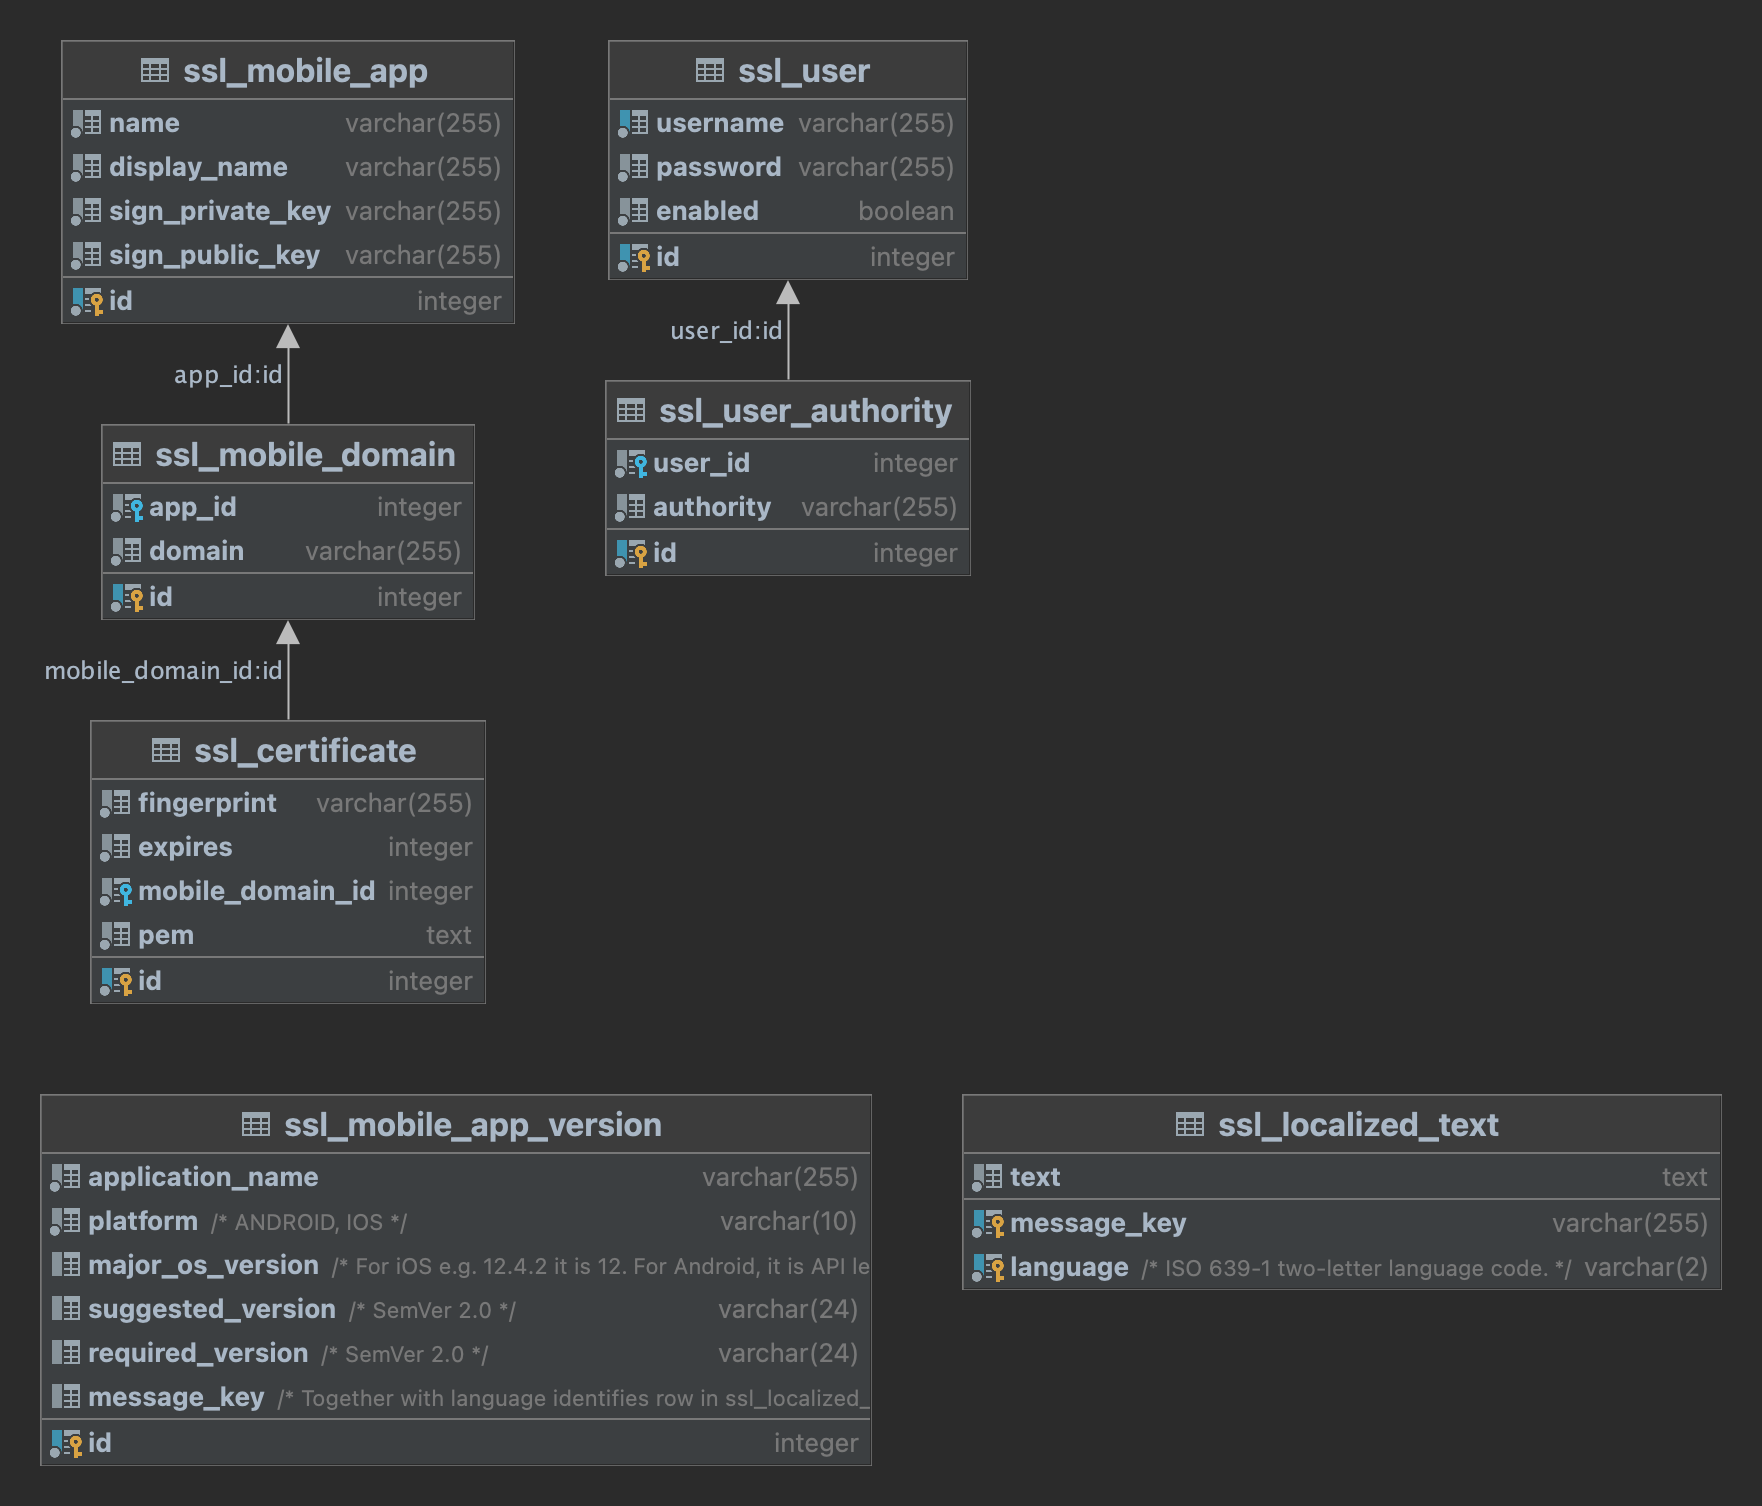
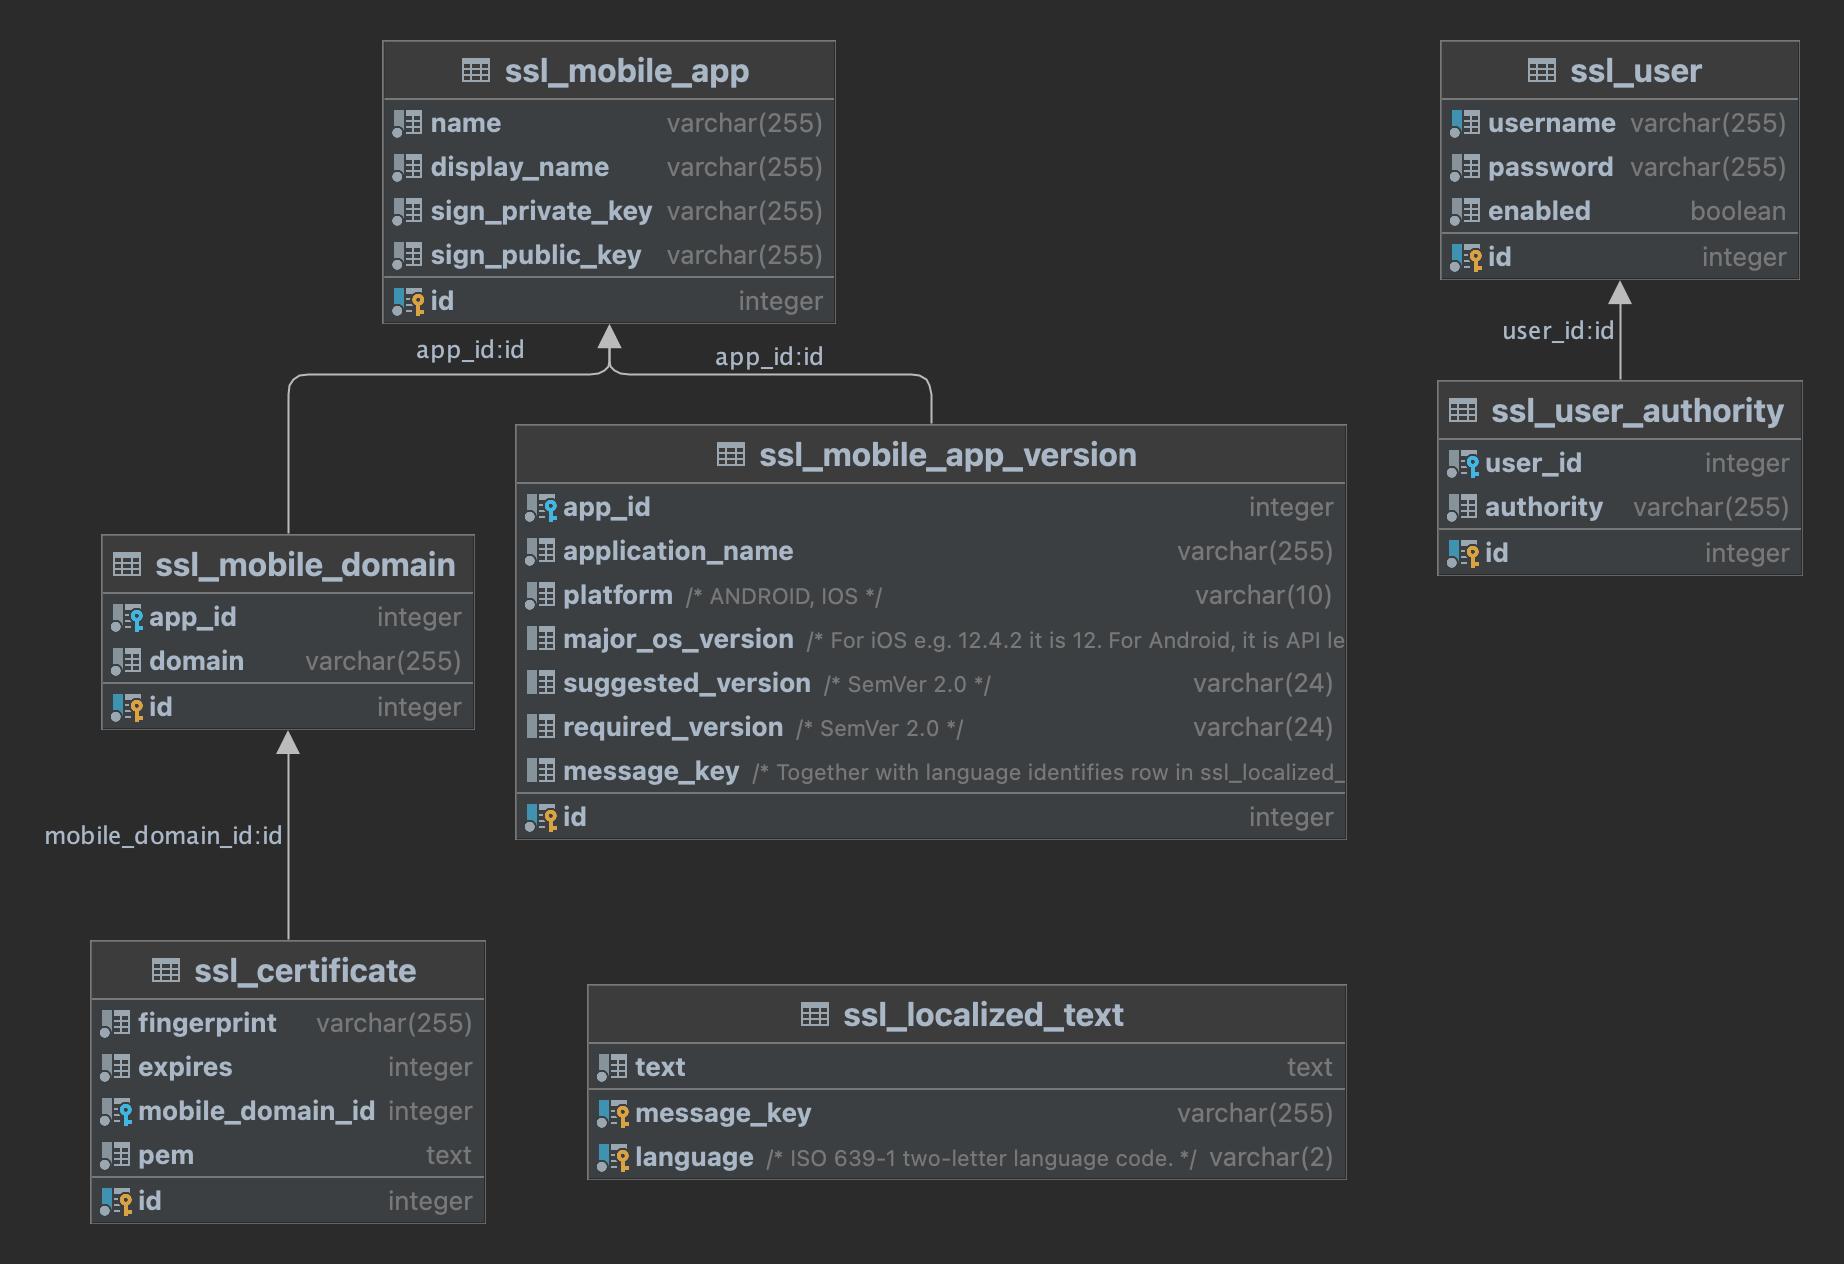
Add app_id column

diff --git a/src/main/java/com/wultra/app/mobileutilityserver/database/model/MobileAppVersionEntity.java b/src/main/java/com/wultra/app/mobileutilityserver/database/model/MobileAppVersionEntity.java
@@ -40,6 +40,10 @@ public class MobileAppVersionEntity {
     @GeneratedValue(strategy = GenerationType.SEQUENCE, generator = "ssl_mobile_app_version")
     private Long id;
 
+    @ManyToOne(fetch = FetchType.LAZY)
+    @JoinColumn(name = "app_id", nullable = false)
+    private MobileAppEntity app;
+
     @Column(name = "application_name", nullable = false)
     private String applicationName;
 

diff --git a/docs/Database-Structure.md b/docs/Database-Structure.md
@@ -154,6 +154,7 @@ Table to force or suggest update of mobile application version.
 create table ssl_mobile_app_version
 (
     id                integer      not null primary key,
+    app_id            integer      not null,
     application_name  varchar(255) not null,
     platform          varchar(10)  not null,
     major_os_version  integer,
@@ -168,6 +169,7 @@ create table ssl_mobile_app_version
 | Column              | Type           | Description                                                                                                            |
 |---------------------|----------------|------------------------------------------------------------------------------------------------------------------------|
 | `id`                | `INTEGER`      | Primary key for the table, automatically incremented value.                                                            |
+| `app_id`            | `INTEGER`      | Reference to related mobile app entity.                                                                                |
 | `application_name`  | `VARCHAR(255)` | Application name.                                                                                                      |
 | `platform`          | `VARCHAR(10)`  | `ANDROID`, `IOS`                                                                                                       |
 | `major_os_version`  | `INTEGER`      | For iOS e.g. 12.4.2 it is 12. For Android, it is API level e.g. 29. When `null`, the rule is applied for all versions. |
